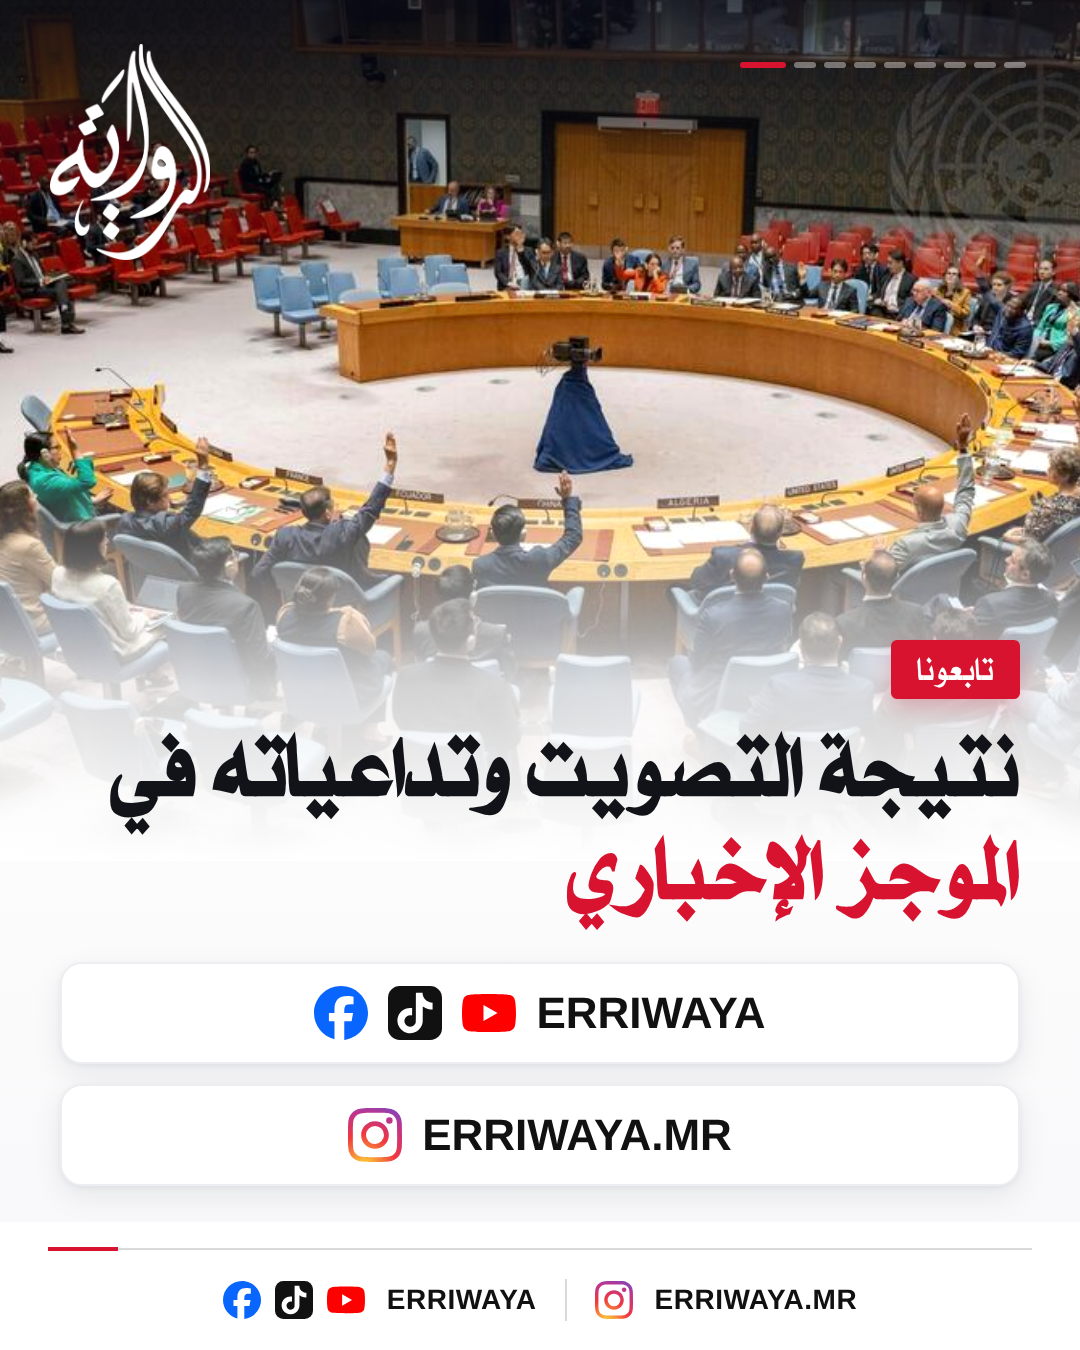
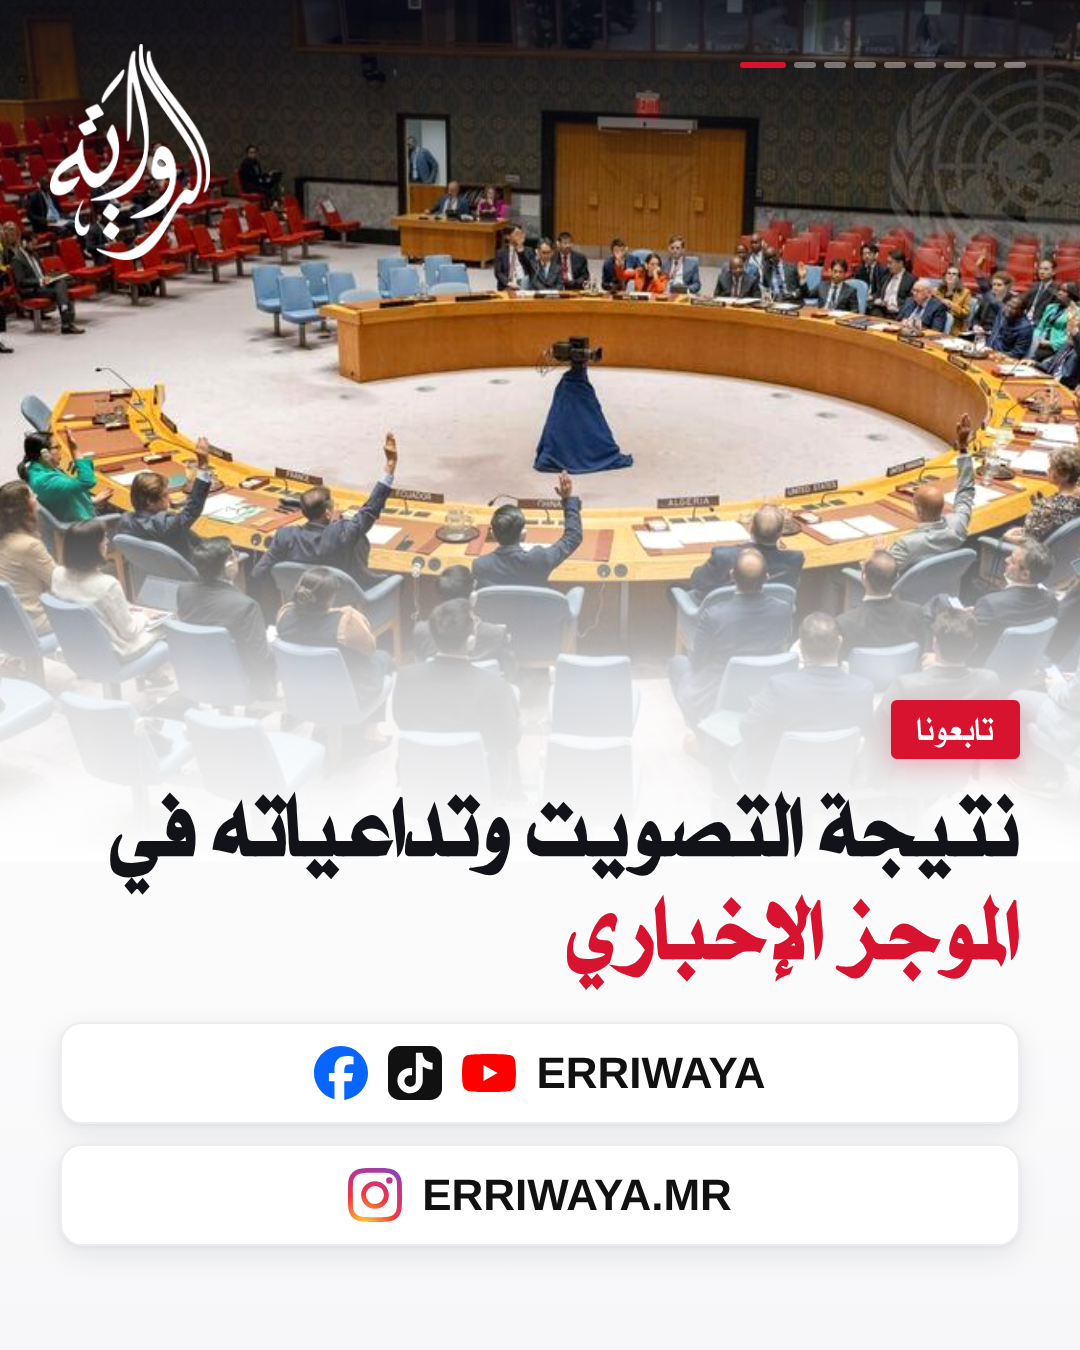
MINURSO carousel: last slide without the footer bar
Claude-Session: https://claude.ai/code/session_01S8ECGBwohQoomeMp3zGTaV

diff --git a/carousels/2026-10-29-minurso/carousel.html b/carousels/2026-10-29-minurso/carousel.html
@@ -220,7 +220,7 @@
 <!-- 9 · outro -->
 <section class="slide tall">
   <div class="photo" style="height:860px"><img src="img/unsc-vote.jpg" style="object-position:30% 60%"></div>
-  <div class="body" style="top:640px">
+  <div class="body" style="top:700px;bottom:80px">
     <span class="kick">تابعونا</span>
     <h1 style="font-size:84px">نتيجة التصويت وتداعياته في <span class="red">الموجز الإخباري</span></h1>
     <div class="big" id="big"></div>
@@ -239,8 +239,10 @@
   const slides = document.querySelectorAll('.slide');
   slides.forEach((s, i) => {
     const dots = Array.from(slides, (_, k) => `<i class="${k === i ? 'on' : ''}"></i>`).reverse().join('');
-    s.insertAdjacentHTML('beforeend', `<div class="logo"></div><div class="page">${dots}</div>
-      <div class="footbar"><div class="rule"></div><div class="foot"><div class="grp">${nets()}<span>ERRIWAYA</span></div><div class="sep"></div><div class="grp">${ig()}<span>ERRIWAYA.MR</span></div></div></div>`);
+    // the last slide carries the handles itself, without the footer bar
+    const last = i === slides.length - 1;
+    s.insertAdjacentHTML('beforeend', `<div class="logo"></div><div class="page">${dots}</div>` + (last ? '' : `
+      <div class="footbar"><div class="rule"></div><div class="foot"><div class="grp">${nets()}<span>ERRIWAYA</span></div><div class="sep"></div><div class="grp">${ig()}<span>ERRIWAYA.MR</span></div></div></div>`));
   });
   document.getElementById('big').innerHTML = `<div>${nets()}ERRIWAYA</div><div>${ig()}ERRIWAYA.MR</div>`;
 </script>
